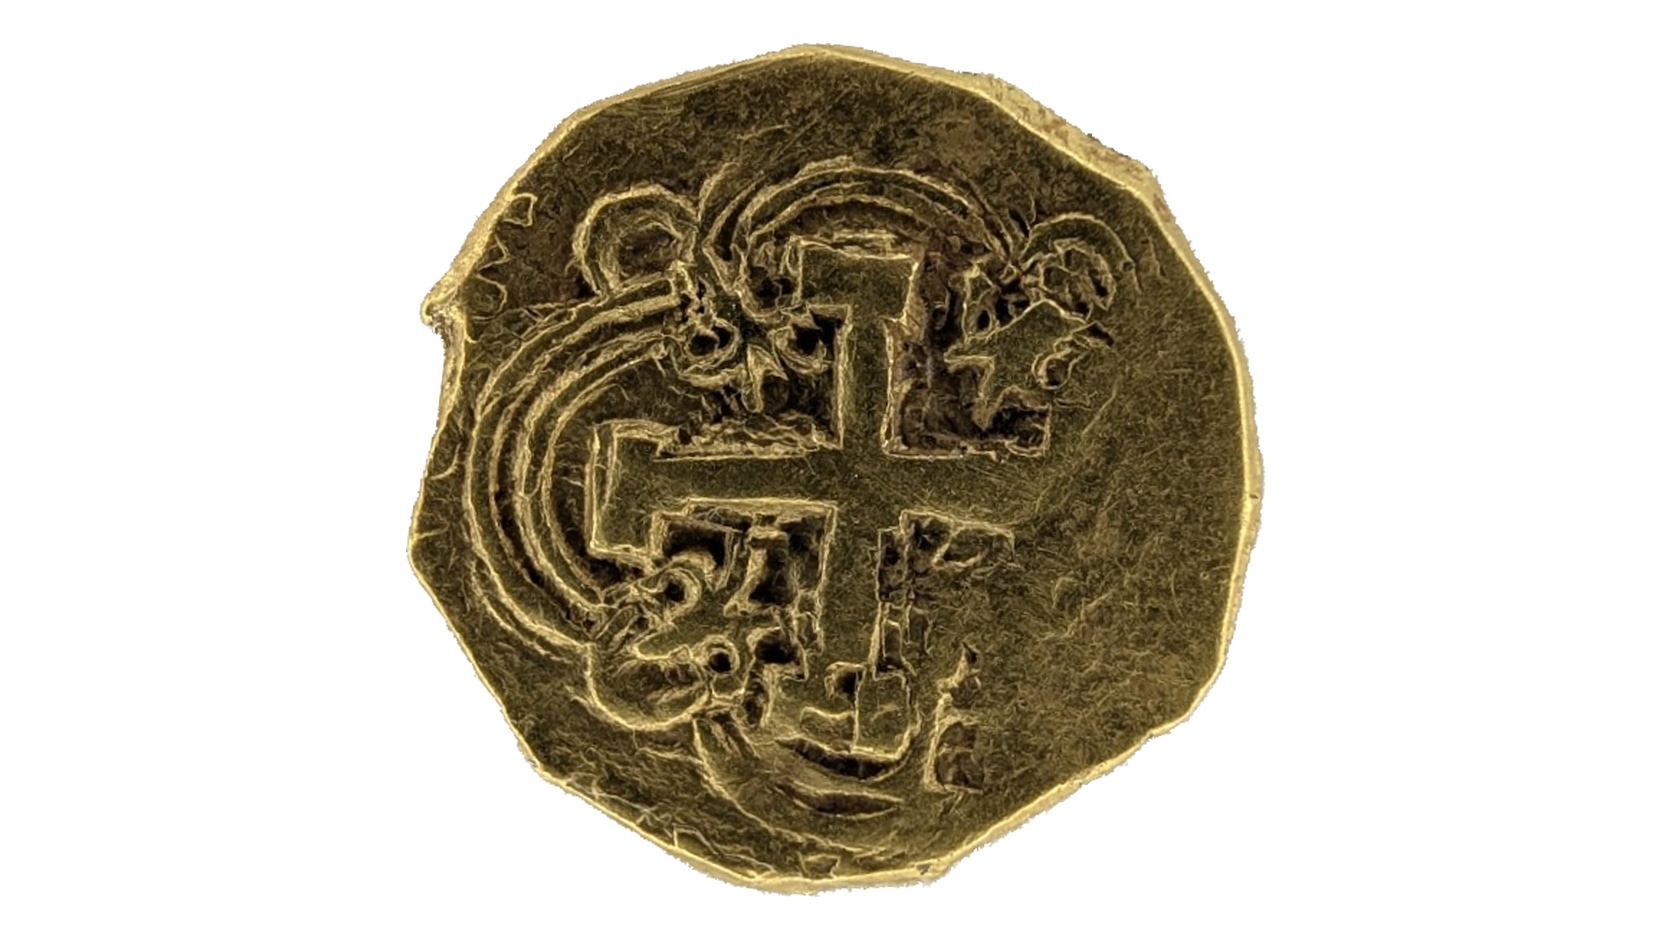
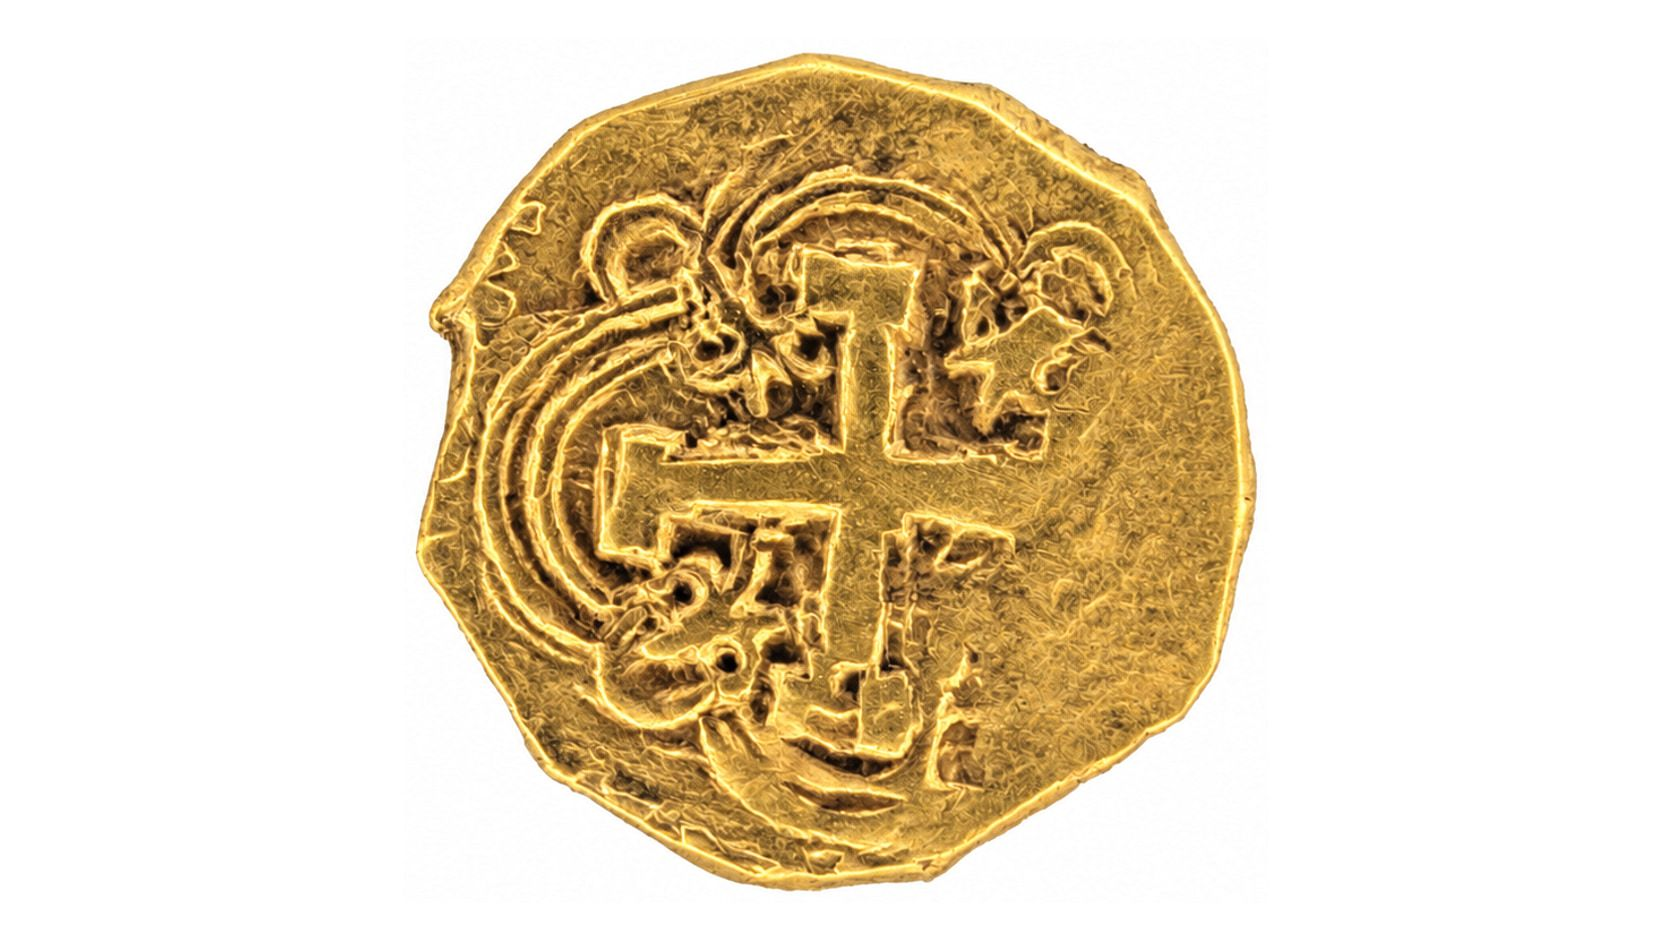
Replace the Bogotá Felipe V 2 escudos cob photographs.
Use the brighter side-by-side scan for the composite and for the centered anverso and reverso, and bust the catalog image cache.

diff --git a/src/lib/images.ts b/src/lib/images.ts
@@ -10,7 +10,7 @@ export const CATALOG_HERO_VERSION = '20260829';
  * Cloudflare Image Resizing keeps the previous file for hours; the query
  * forces the homepage card and the note srcset onto the new frame.
  */
-export const CATALOG_SCAN_VERSION = '20261006b';
+export const CATALOG_SCAN_VERSION = '20261024';
 
 export function catalogAssetSrc(src: string, version: string = CATALOG_HERO_VERSION): string {
   if (!version || !src.startsWith('/')) return src;
